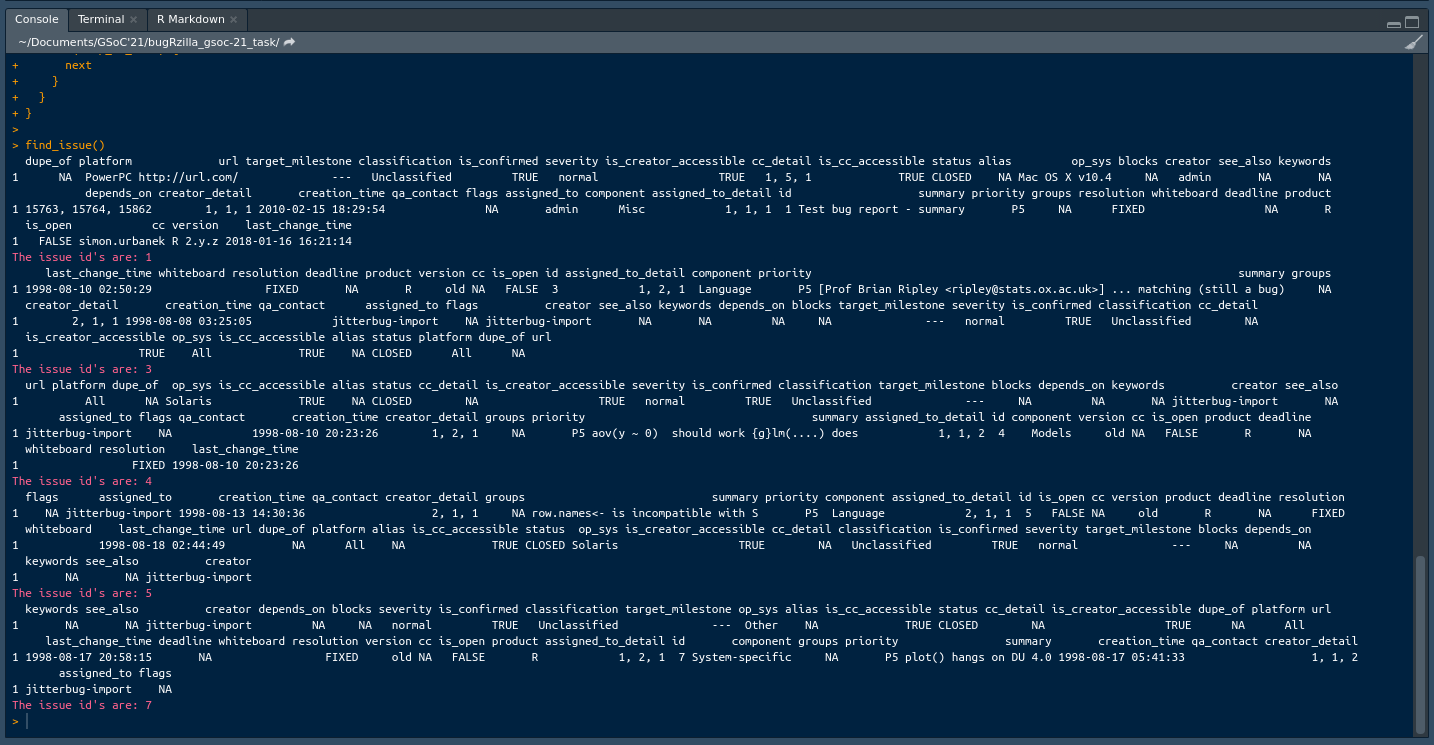
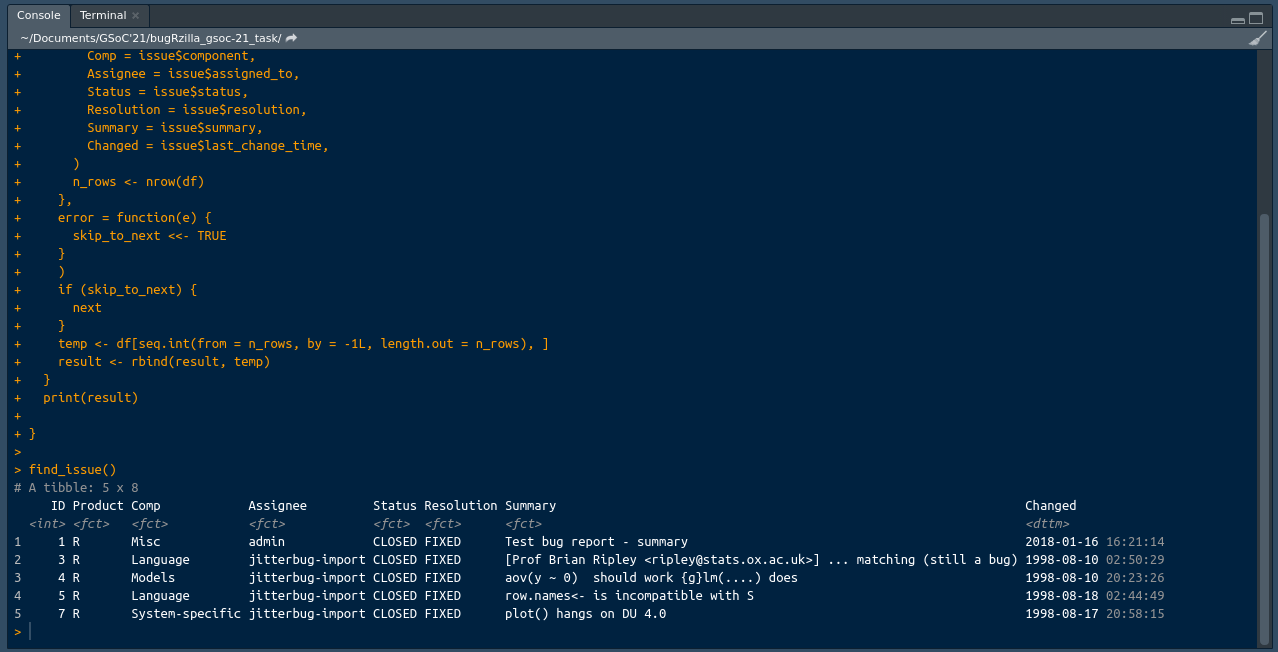
updated Task-1 and Task-2

Changed region(s): [[0.0, 0.0, 1.0, 1.0]]

diff --git a/easy/README.md b/easy/README.md
@@ -1,5 +1,5 @@
 # Task-1
 ### Find the first 5 issues posted on Bugzilla. This can be done with the package or through Bugzilla (Check familiarity with bugRzilla code and Bugzilla)
-> I've used the bugRzilla library. Used a get_bug() function, this function works as it only returns a single issue corresponding to the value passed (i.e. the id of issue) in the function. So, I used a for loop to iterate over the get_bug() function but there was a problem as the get_bug() function throws an error that "Bug #issue does not exist.", e.g. "Bug #2 does not exist." in that situation, the aim was to continue the for loop and skip the error, so I used trycatch() function to continue the loop to find the first 5 issues posted on Bugzilla.
+> I've used the bugRzilla library. Used a get_bug() function, this function works as it only returns a single issue corresponding to the value passed (i.e. the id of issue) in the function. So, I used a for loop to iterate over the get_bug() function but there was a problem as the get_bug() function throws an error that "Bug #issue does not exist.", e.g. "Bug #2 does not exist." in that situation, the aim was to continue the for loop and skip the error, so I used trycatch() function to continue the loop to find the first 5 issues posted on Bugzilla and created an empty dataframe and for each iteration of the loop I've appended that issue in that dataframe to show all first five issue together.
 
 ![Output of Task-1](./Output_task-1/Task-1_output.png)

diff --git a/medium/README.md b/medium/README.md
@@ -1,5 +1,5 @@
 # Task-2
 ### Create a function that opens on the browser a desired bug report on Bugzilla. Create some tests for the function. (Level of technical skills)
-> In this, I've imported bugRzilla library. Created a function desired_bug() in which I've defined the base_url and passed a formal argument i.e. "id". which is further passed in the browseURL() function which will be redirected to the browser. And created a test to check whether the function is working properly or not.
+> In this, I've imported bugRzilla library. Created a function desired_bug() in which I've defined the base_url and passed a formal argument i.e. "id". which is further passed in the browseURL() function in which base_url and id are concatenated and will be redirected to the browser. And created a test to check whether the function is working properly or not. In test, I've used the for loop to get issue_id and stored in the list, used a sample() function to take any random value which is the formal argument for the function desired_bug().
 
 ![Output of Task-2](./output_task-2/Task-2_output.png)
